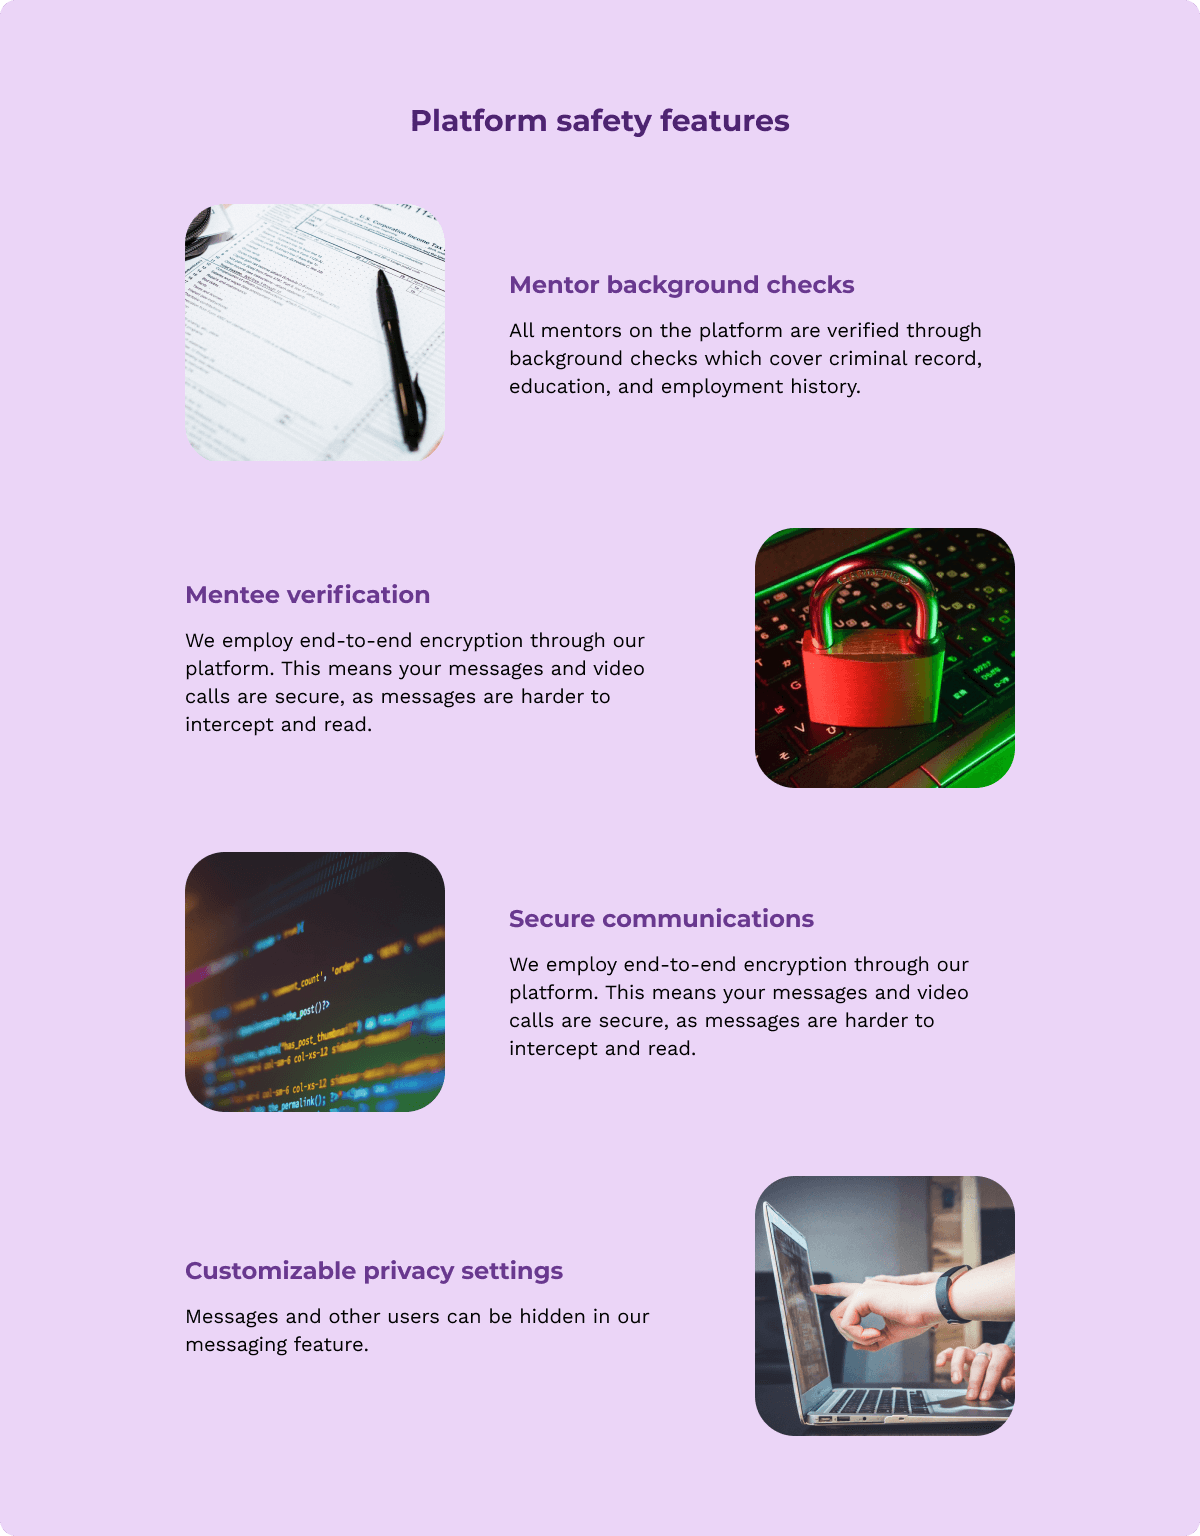
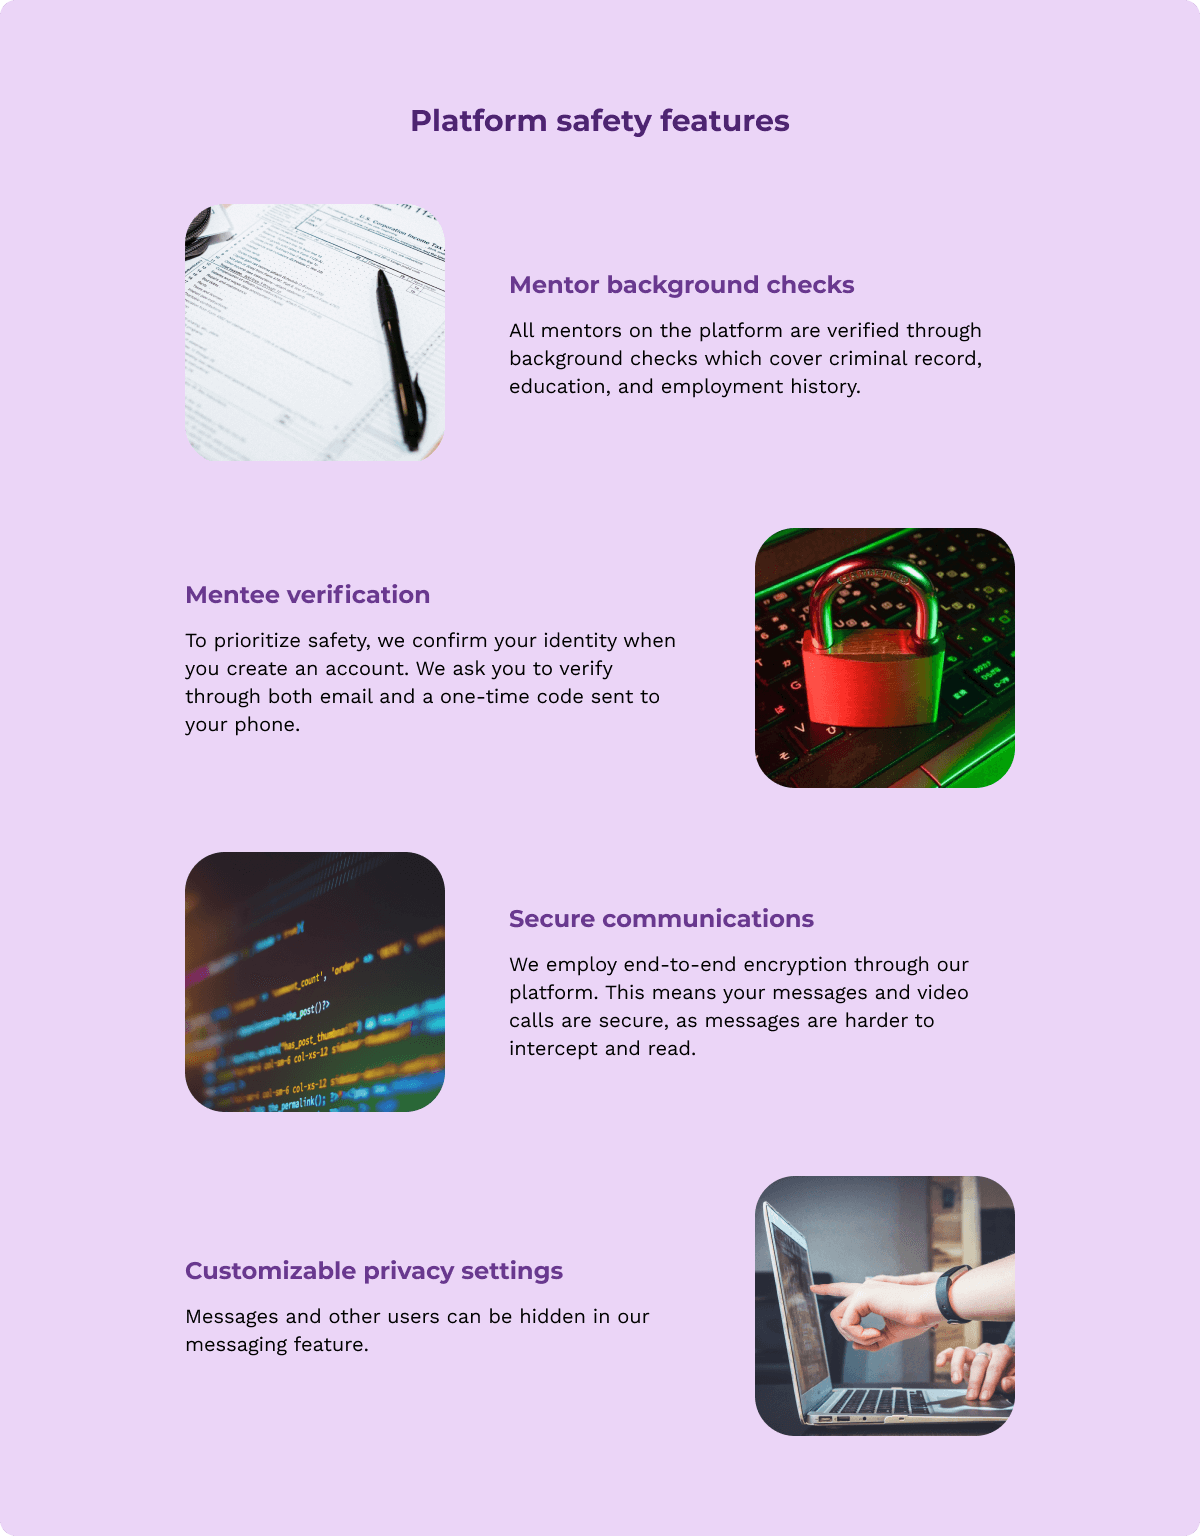
updating sl case study

Changed region(s): [[0.1542, 0.4062, 0.555, 0.5]]

diff --git a/src/components/projects/caseStudies/case-study-sl-body.js b/src/components/projects/caseStudies/case-study-sl-body.js
@@ -6,6 +6,11 @@ import imgPhoto from "../../../assets/image/png/audit1.png";
 import imgPhoto1 from "../../../assets/image/png/audit2.png";
 import imgPhoto2 from "../../../assets/image/png/landingbefore.png";
 import imgPhoto3 from "../../../assets/image/png/landingafter.png";
+import imgPhoto4 from "../../../assets/image/png/menteebenefits.png";
+import imgPhoto5 from "../../../assets/image/png/safetybefore.png";
+import imgPhoto6 from "../../../assets/image/png/safetyafter.png";
+import imgPhoto7 from "../../../assets/image/png/programgoalsbefore.png";
+import imgPhoto8 from "../../../assets/image/png/programgoalsafter.png";
 
 
 const CaseStudy2Body = () => {
@@ -54,7 +59,8 @@ const CaseStudy2Body = () => {
                 <Text className="mb-4 mt-4">
                     Following our newly developed Content Style Guide, we wrote our copy to be clear, consistent, inclusive, uplifting, ethical, respectful, approachable, and compassionate. 
                     <br /> 
-                    We used casual, informal language based on our user's age range (18-25 for mentees), their desire for inclusivity, and for overall readability. 
+                    We used casual, informal language based on our user's age range (18-25 for mentees), their desire for inclusivity, and for overall readability; this included the use of sentence case (aside from proper nouns which we determined would use title case).
+
                 </Text>
               </div>
             </Row>
@@ -102,7 +108,7 @@ const CaseStudy2Body = () => {
             <Row className='mt-4'>
                 <Col>
                   <Title variant="card">Before</Title>
-                  <Text className="mb-5 mt-4"><i>"Wherever you are on your journey, a mentor can help you take the next step."</i></Text>
+                  <Text className="mb-4 mt-4">The copy was vague and unclear:<br /><i>"Wherever you are on your journey, a mentor can help you take the next step."</i></Text>
                   <img src={imgPhoto2} alt="" className="img-fluid w-100" />
                 </Col>
                 <Col>
@@ -110,26 +116,47 @@ const CaseStudy2Body = () => {
                   <Text className="mb-4 mt-4"><i>"A free, online mentorship program that matches LGBTQIA+ young adults with mentors in the queer community."</i></Text>
                   <img src={imgPhoto3} alt="" className="img-fluid w-100" />
                 </Col>
-                <Text className="mb-5 mt-4"></Text>
+                <Text className="mb-5 mt-4">It was important to use <i>young adults</i> in the copy to further clarify who the platform is for and distinguish a separation from Sean's Legacy's non-profit mission. Adding upfront that mentorship is virtual, free, and specifically for the LGBTQIA+ community helps build trust from the start.</Text>
             </Row>
             <Row className='mt-4'>
               <div>
-                  <Title variant="card">User Goals</Title>
-                  <Text className="mb-4 mt-4" variant='li'>Learn more about the designer and their work.</Text>
-                  <Text className="mb-4 mt-4" variant='li'>Find the designer's contact information.</Text>
+                  <Title variant="cardBig">Why should I sign up for the Sean's Legacy Mentorship Program?</Title>
+                  <Text className="mb-4 mt-4">As the landing page had <b>no clear value proposition</b>, we ideated on how a potential mentee might feel and what questions they might be asking. Privacy was important to users based on prior research, and we added copy to show mentees we understand their concerns and take them seriously.</Text>
+                  <img src={imgPhoto4} alt="" className="img-fluid w-100" />
               </div>
             </Row>
             <Row className='mt-4'>
-                <div>
-                  <Title variant="card">Starting Situation</Title>
-                  <Text className="mb-4 mt-4"><i>“You are a hiring manager and you have received this designer's portfolio to see if you are interested in interviewing them for an early career UX Design position.”</i></Text>
-                </div>
+                  <Title variant="cardBig">Clarifying jargon, increasing understanding, building trust</Title>
+                  <Text className="mb-4 mt-4 w-100">One <b>major area of confusion</b> during Phase 1 usability testing was <b>around the phrase <i>Whisper Technology</i></b>. The designer I worked with on this page was unsure if our client wanted to keep that specific phrasing, so I reached out to Sean's Legacy's internal content team to inquire. With their input we crafted new copy, changing <i>Whisper technology</i> to <i>Customizable privacy settings</i>, and changing <i>DM's</i> to <i>messaging feature</i> for increased understanding.
+                  <br /> 
+                  <br /> Through our initial audit we realized all copy could be edited for concision and further clarity. <b>Only mentors complete a background check</b>, and <b>this copy read as though mentees must also undergo a background check.</b></Text>
+                <Col>
+                  <Title variant="card">Before</Title>
+                  <img src={imgPhoto5} alt="" className="img-fluid w-100" />
+                </Col>
+                <Col>
+                  <Title variant="card">After</Title>
+                  <img src={imgPhoto6} alt="" className="img-fluid w-100" />
+                </Col>
             </Row>
             <Row className='mt-4'>
                 <div>
-                  <Title variant="card">Example Scenario</Title>
-                  <Text className="mb-4 mt-4"><i>"You have viewed the designer's work and want to learn more on who they are. Please show me how you would go about doing so."</i></Text>
+                  <Text className="mb-4 mt-4"><i>Safe end-to-end encrypted chats</i> was simplified to <i>Secure communications</i>, with the meaning of "end-to-end encrypted chats" clearly explained in the copy. The <i>Mentee verification</i> title and copy were added when our client decided to move forward with 2-factor authorization in order to increase safety.</Text>
                 </div>
+            </Row>
+            <Row className='mt-4'>
+                  <Title variant="cardBig">Balancing needs of our client and our users</Title>
+                  <Text className="mb-4 mt-4 w-100">Our client was keen to showcase the goals of their mentorship program but current designs were lacking transparency. We wanted to ensure potential users would understand what the platform was for so we sharpened the copy.</Text>
+                <Col>
+                  <Title variant="card">Before</Title>
+                  <Text className="mb-4 mt-4 w-100">The content was unclear and difficult to read, causing concerns it would be skipped over.</Text>
+                  <img src={imgPhoto7} alt="" className="img-fluid w-100" />
+                </Col>
+                <Col>
+                  <Title variant="card">After</Title>
+                  <Text className="mb-4 mt-4 w-100">We improved readability by editting copy for concision. Headers were created to make scanning easier.</Text>
+                  <img src={imgPhoto8} alt="" className="img-fluid w-100" />
+                </Col>
             </Row>
             <Row className='mt-4'>
                 <Title variant="card">Results</Title>

diff --git a/src/pages/seans-legacy.js b/src/pages/seans-legacy.js
@@ -12,7 +12,7 @@ const SeansLegacy = () => {
     <>
       <PageWrapper lightTheme>
         <Hero />
-       
+        
         <CTA />
       </PageWrapper>
     </>
